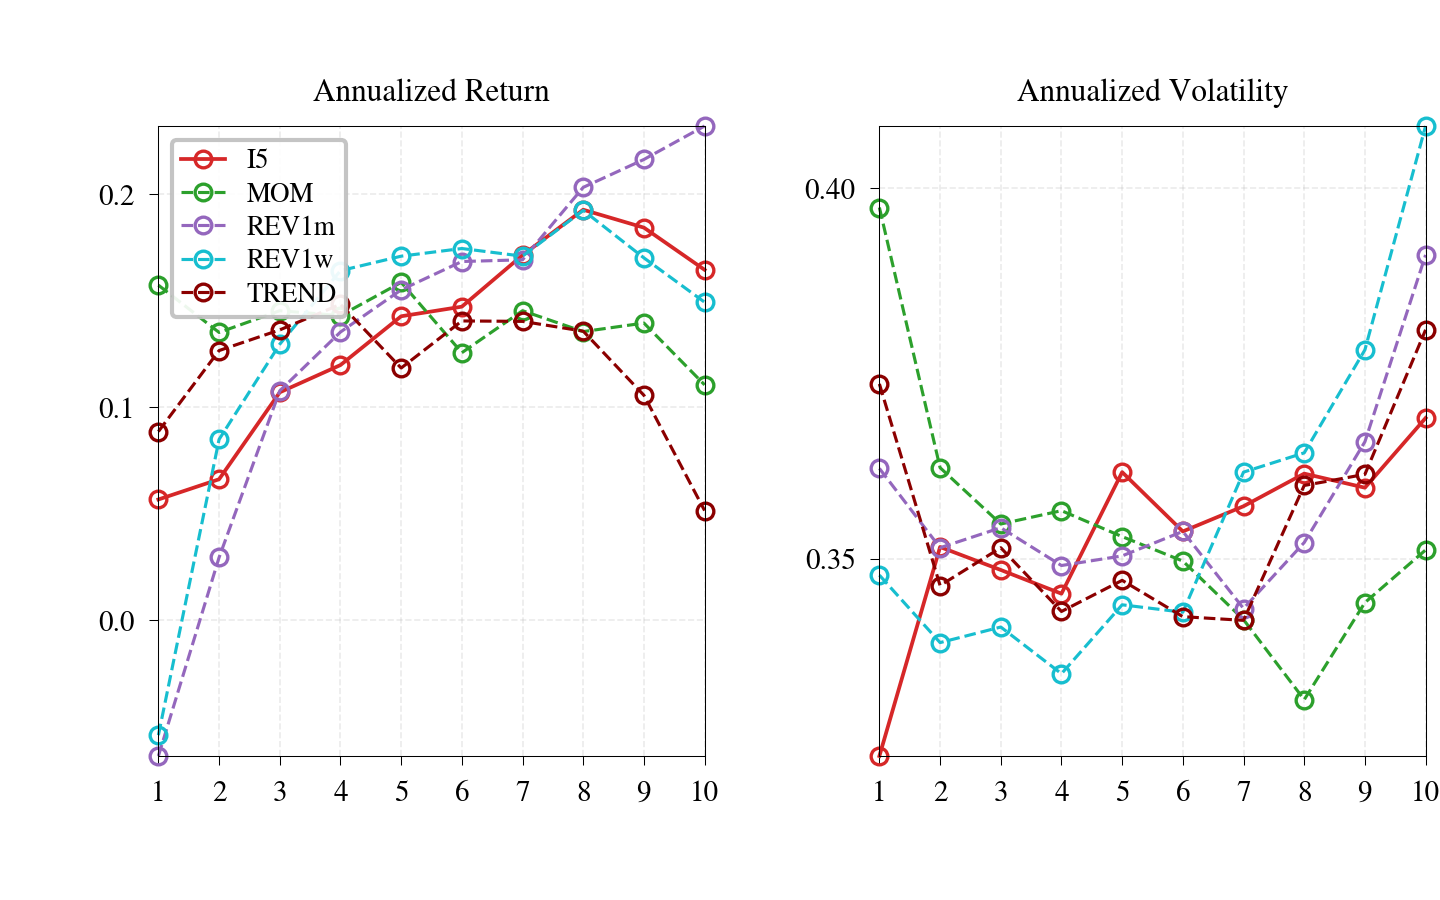
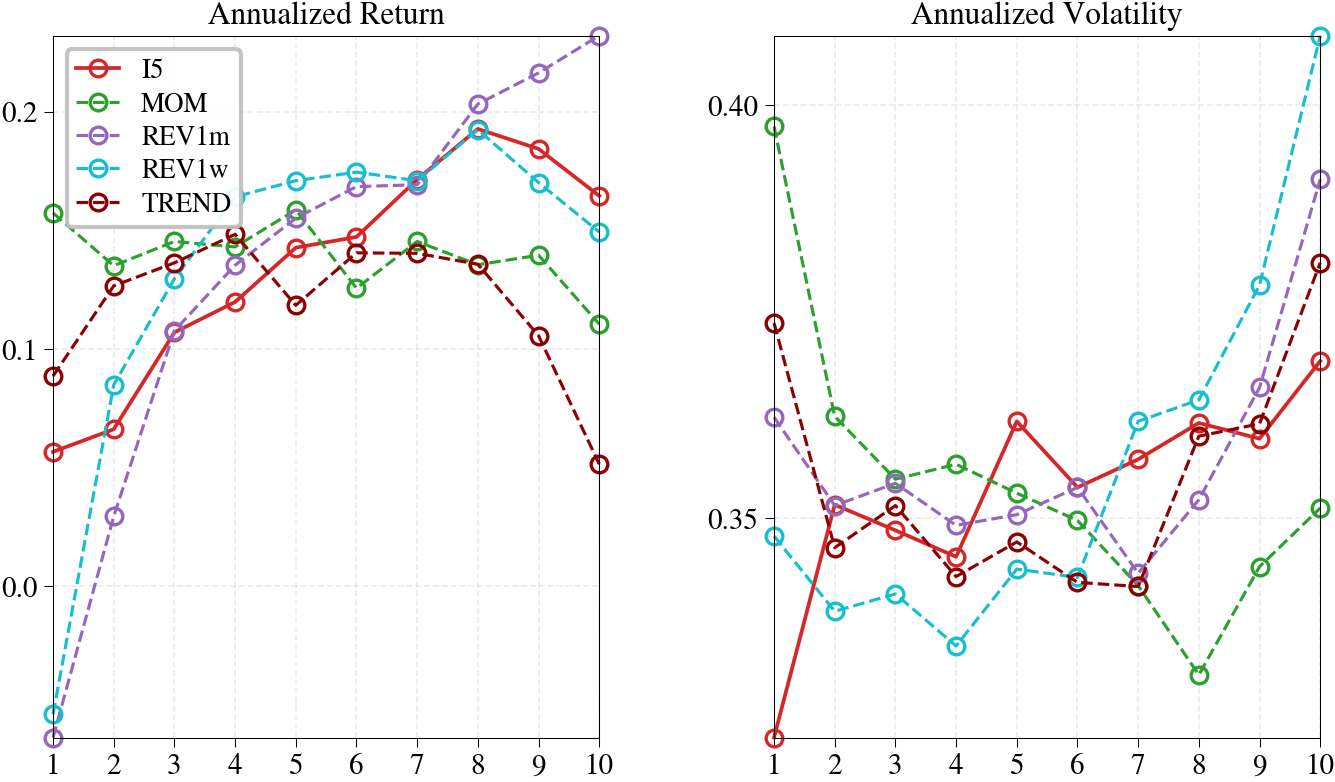
refactor: enhance decile scatter curves script by adjusting figure layout and aesthetics; update tick parameters and save settings for improved output quality

diff --git a/outputs/analysis_results/03_decile_scatter_curves/03_decile_figure.py b/outputs/analysis_results/03_decile_scatter_curves/03_decile_figure.py
@@ -33,6 +33,7 @@ FIG_W, FIG_H = 4.8, 3.0
 FIG_DPI = 300
 # Match 02 cumulative-return plot boxes (pt).
 SPINE_LW = 0.25
+SAVE_PAD_INCHES = SPINE_LW / 72.0 / 2.0 + 0.002
 FONT_FAMILY = "Times New Roman"
 NIMBUS_ROMAN_PATH = "/usr/share/fonts/opentype/urw-base35/NimbusRoman-Regular.otf"
 
@@ -108,7 +109,7 @@ def _apply_ticks(ax: plt.Axes, y0: float, y1: float, step: float, *, tick_size: 
     ax.set_ylim(y0, y1)
     ax.margins(x=0, y=0)
     ax.autoscale(enable=False)
-    ax.tick_params(axis="both", labelsize=tick_size, width=SPINE_LW, length=2.2)
+    ax.tick_params(axis="both", labelsize=tick_size, width=SPINE_LW, length=2.2, pad=1.5)
     fp = plot_font(tick_size)
     for label in ax.get_xticklabels() + ax.get_yticklabels():
         label.set_fontproperties(fp)
@@ -152,7 +153,7 @@ def plot_decile_curves(
     vol_y0, vol_y1 = _data_limits(vol_flat)
 
     fig, axes = plt.subplots(1, 2, figsize=(FIG_W, FIG_H), sharex=True)
-    fig.subplots_adjust(left=0.11, right=0.99, bottom=0.16, top=0.86, wspace=0.32)
+    fig.subplots_adjust(left=0.11, right=0.99, bottom=0.12, top=0.90, wspace=0.32)
     tick_size = 7.0
     titles = ("Annualized Return", "Annualized Volatility")
 
@@ -162,7 +163,7 @@ def plot_decile_curves(
         ((ret_y0, ret_y1, RET_STEP), (vol_y0, vol_y1, VOL_STEP)),
     ):
         _apply_ticks(ax, y0, y1, step, tick_size=tick_size)
-        ax.set_title(titles[metric_idx], fontproperties=plot_font(tick_size + 0.5))
+        ax.set_title(titles[metric_idx], fontproperties=plot_font(tick_size + 0.5), pad=3.0)
         ax.grid(True, alpha=0.25, linestyle="--", linewidth=0.4)
         for side in ("left", "right", "top", "bottom"):
             ax.spines[side].set_visible(True)
@@ -204,6 +205,8 @@ def plot_decile_curves(
     fig.savefig(
         out_path,
         dpi=FIG_DPI,
+        bbox_inches="tight",
+        pad_inches=SAVE_PAD_INCHES,
         facecolor="white",
         edgecolor="none",
     )
